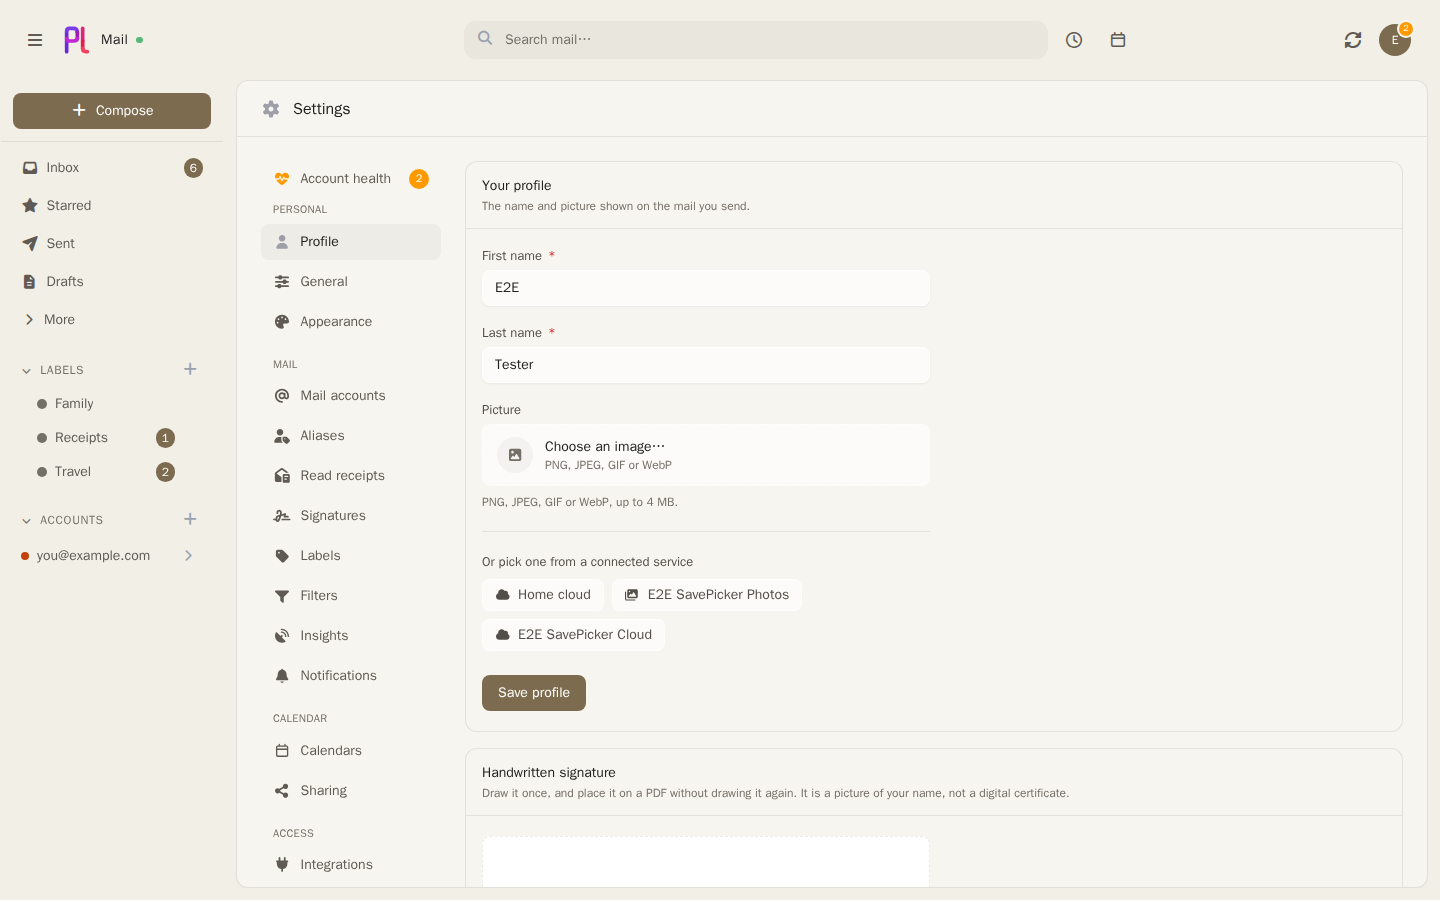
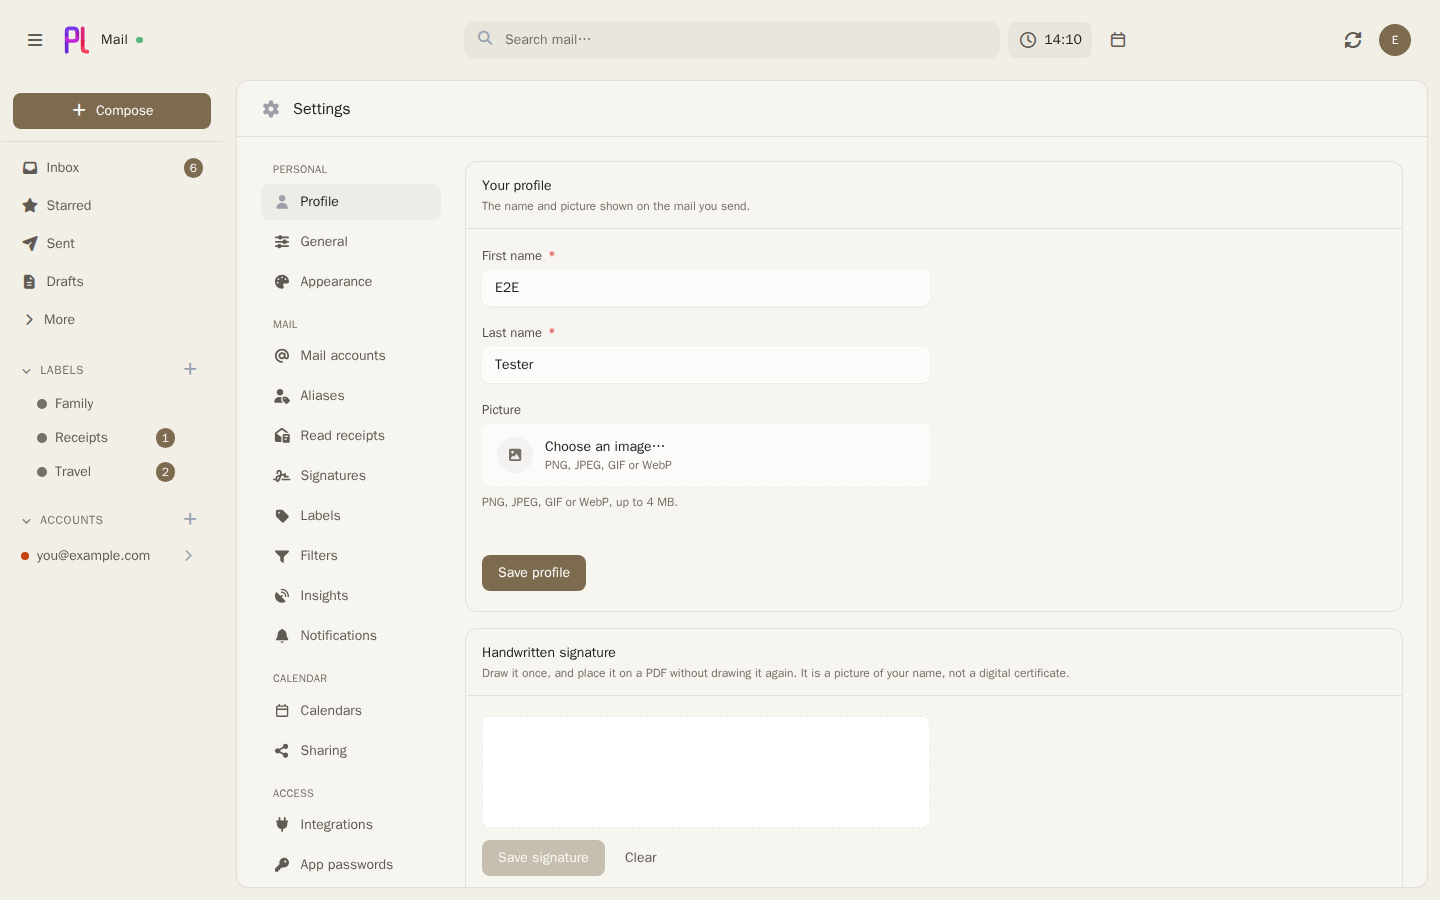
Release v0.2.39

diff --git a/CHANGELOG.md b/CHANGELOG.md
@@ -6,6 +6,25 @@ so anything that changes the schema irreversibly is called out explicitly.
 The published image tags: `latest` follows the most recent release below,
 `main` follows the tip of the default branch, and `sha-…` pins one commit.
 
+## v0.2.39 — 2026-09-23
+
+### Added
+
+- **The time, while you read your mail.** A new choice under Settings → General → Clock, **Show
+  the time**, puts a clock that moves on by itself somewhere you can see it:
+
+  - **On the Happening Soon button**, the default. The button now shows the time on every page
+    rather than only when something is coming up — the next thing's icon when there is one, a clock
+    when there is not — and the panel it opens starts with the time and today's date.
+  - **Under the plMail name**, as a quiet second line: weekday and time.
+  - **At the bottom of the sidebar**: a larger time, the date and the next thing coming up, which
+    opens Happening Soon.
+  - **Nowhere**, which is the topbar exactly as it was.
+
+  It follows your timezone and 12- or 24-hour choice, is right on the first paint rather than
+  filled in afterwards, and stays right in a tab that has been in the background. On a phone the
+  topbar leaves the time off, since the phone already shows it.
+
 ## v0.2.38 — 2026-09-23
 
 ### Fixed

diff --git a/README.md b/README.md
@@ -46,7 +46,8 @@ provider doesn't.
   and a tab you choose by hand stays chosen when the next message in the thread arrives.
 - **A calendar beside the mail** — two-way sync with Google, Microsoft and CalDAV, a drag-to-move
   week grid that pans rather than squeezes on a phone, invitations answered in place, share and
-  booking links.
+  booking links. The time is always in view — on the Happening Soon button, under the name, or at
+  the foot of the sidebar with the next thing coming up.
 - **Files where you keep them** — attach from and save to Drive, Photos, OneDrive, Dropbox,
   Nextcloud, Immich and Paperless-ngx.
 - **A language model, if you want one** — point plMail at an Ollama box on your own network and it
